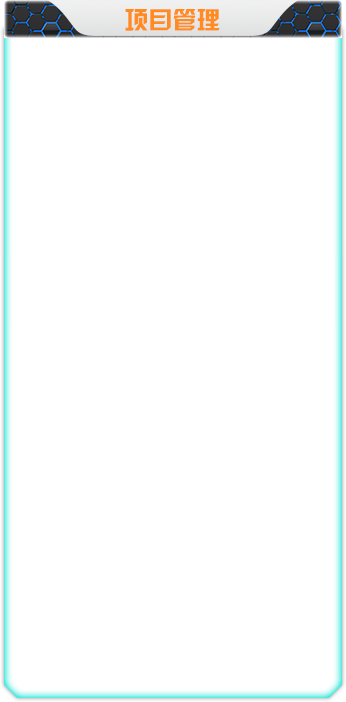
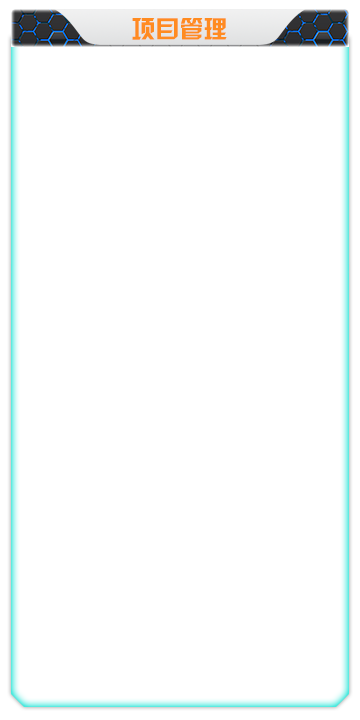
管理驾驶舱代码修正。

Changed region(s): [[0.0, 0.0, 1.0, 1.0]]

diff --git a/source/7.5.10-eai-cockpit-scene/FEaiCockpitModuleAchievementSnapshot.js b/source/7.5.10-eai-cockpit-scene/FEaiCockpitModuleAchievementSnapshot.js
@@ -13,7 +13,6 @@ MO.FEaiCockpitModuleAchievementSnapshot = function FEaiCockpitModuleAchievementS
    o._dataTicker           = null;
    // @attribute
    o._backgroundImage      = null;
-   o._backgroundPadding    = null;
    // @attribute
    o._listenersDataChanged = MO.Class.register(o, new MO.AListener('_listenersDataChanged', MO.EEvent.DataChanged));
    //..........................................................
@@ -57,26 +56,19 @@ MO.FEaiCockpitModuleAchievementSnapshot_onPaintBegin = function FEaiCockpitModul
    var top = rectangle.top;
    var width = rectangle.width;
    var height = rectangle.height;
-   var right = left + width;
-   var bottom = top + height;
-   var drawPosition = top;
-   var heightRate = height / o._size.height;
-   var drawLeft = left + 12;
-   var drawRight = right - 12;
-   var drawWidth = right - left;
    //..........................................................
    // 绘制背景
-   graphic.drawGridImage(o._backgroundImage, left, top, width, height, o._backgroundPadding);
+   graphic.drawImage(o._backgroundImage, left, top, width, height);
    //..........................................................
    // 绘制标题
-   var titleText = 'e租宝财富端本月业绩';
-   graphic.setFont('bold 32px Microsoft YaHei');
-   var titleWidth = graphic.textWidth(titleText);
-   var textLeft = left + (width - titleWidth) * 0.5;
-   graphic.drawText(titleText, textLeft, top + 60, '#333333');
-   drawPosition += 60
-      //..........................................................
-   graphic.setFont(o._rowFontStyle);
+   //var titleText = 'e租宝财富端本月业绩';
+   //graphic.setFont('bold 32px Microsoft YaHei');
+   //var titleWidth = graphic.textWidth(titleText);
+   //var textLeft = left + (width - titleWidth) * 0.5;
+   //graphic.drawText(titleText, textLeft, top + 60, '#333333');
+   //drawPosition += 60
+   //..........................................................
+   //graphic.setFont(o._rowFontStyle);
 }
 
 //==========================================================
@@ -104,10 +96,8 @@ MO.FEaiCockpitModuleAchievementSnapshot_construct = function FEaiCockpitModuleAc
    // 创建属性
    o._cellLocation.set(11, 4, 0);
    o._cellSize.set(5, 5);
-   o._size.set(600, 840);
    o._dataTicker = new MO.TTicker(1000 * 60);
    o._currentDate = new MO.TDate();
-   o._backgroundPadding = new MO.SPadding(20, 0, 20, 0);
    o._data = MO.Class.create(MO.FEaiCockpitMessageAchievement);
 }
 
@@ -125,8 +115,8 @@ MO.FEaiCockpitModuleAchievementSnapshot_setup = function FEaiCockpitModuleAchiev
    //..........................................................
    var grid = o._gridControl = MO.Class.create(MO.FGuiTable);
    grid.setOptionClip(true);
-   grid.setLocation(6, 80);
-   grid.setSize(578, 760);
+   grid.setLocation(6, 100);
+   grid.setSize(578, 500);
    grid.setHeadHeight(35);
    grid.setHeadBackColor('#122A46');
    grid.headFont().font = 'Microsoft YaHei';

diff --git a/source/2.2.03-graphic-2d-canvas/FG2dCanvasContext.js b/source/2.2.03-graphic-2d-canvas/FG2dCanvasContext.js
@@ -49,6 +49,7 @@ MO.FG2dCanvasContext = function FG2dCanvasContext(o) {
    o.drawText             = MO.FG2dCanvasContext_drawText;
    o.drawTextVertical     = MO.FG2dCanvasContext_drawTextVertical;
    o.drawImage            = MO.FG2dCanvasContext_drawImage;
+   o.drawRectangleImage   = MO.FG2dCanvasContext_drawRectangleImage;
    o.drawGridImage        = MO.FG2dCanvasContext_drawGridImage;
    o.drawQuadrilateral    = MO.FG2dCanvasContext_drawQuadrilateral;
    // @method
@@ -368,6 +369,17 @@ MO.FG2dCanvasContext_drawImage = function FG2dCanvasContext_drawImage(content, x
    }
    // 绘制位图
    handle.drawImage(data, x, y, width, height);
+}
+
+//==========================================================
+// <T>绘制图像。</T>
+//
+// @method
+// @param content:Object 图像内容
+// @param rectangle:SRectangle 矩形
+//==========================================================
+MO.FG2dCanvasContext_drawRectangleImage = function FG2dCanvasContext_drawRectangleImage(content, rectangle){
+   this.drawImage(content, rectangle.left, rectangle.top, rectangle.width, rectangle.height);
 }
 
 //==========================================================

diff --git a/source/7.5.10-eai-cockpit-scene/FEaiCockpitModuleManager.js b/source/7.5.10-eai-cockpit-scene/FEaiCockpitModuleManager.js
@@ -156,8 +156,11 @@ MO.FEaiCockpitModuleManager_setup = function FEaiCockpitModuleManager_setup(){
    module.setup();
    o.register(module);
    //..........................................................
-   var cellWidth = 1920 / 16;
-   var cellHeight = 1920 / 9;
+   var application = o._scene.application();
+   var desktop = application.desktop();
+   var logicSize = desktop.logicSize();
+   var cellWidth = logicSize.width / 16;
+   var cellHeight = logicSize.height / 9;
    // 显示模块
    var modules = o._modules;
    var count = modules.count();
@@ -170,7 +173,7 @@ MO.FEaiCockpitModuleManager_setup = function FEaiCockpitModuleManager_setup(){
       snapshot.size().set(cellWidth * snapshotCellSize.width, cellHeight * snapshotCellSize.height);
       // 设置视图大小
       var view = module.controlView();
-      view.size().set(1920, 1080);
+      view.size().assign(logicSize);
       // 设置控件
       if(typeCd == MO.EEaiCockpitModule.Logo){
          // 显示缩略图

diff --git a/source/eai/cockpit.html b/source/eai/cockpit.html
@@ -65,6 +65,7 @@
       MO.Console.find(MO.FE3sVendorConsole).setup('net');
       MO.Console.find(MO.FEnvironmentConsole).registerValue(MO.EEaiConstant.Resource, '/script/ars/eai');
       MO.Console.find(MO.FEnvironmentConsole).registerValue(MO.EEaiConstant.LogicService, 'http://service.test.eai.ezubo.com');
+      //MO.Console.find(MO.FEnvironmentConsole).registerValue(MO.EEaiConstant.LogicService, 'http://121.42.136.88:8020');
       //MO.Console.find(MO.FEnvironmentConsole).registerValue(MO.EEaiConstant.LogicService, 'http://localhost:8020');
       //MO.Console.find(MO.FEnvironmentConsole).registerValue(MO.EEaiConstant.LogicService, 'http://service.eai.ezubo.com');
       // 设置日志

diff --git a/source/7.5.10-eai-cockpit-scene/FEaiCockpitModuleLogoSnapshot.js b/source/7.5.10-eai-cockpit-scene/FEaiCockpitModuleLogoSnapshot.js
@@ -51,13 +51,9 @@ MO.FEaiCockpitModuleLogoSnapshot_onPaintBegin = function FEaiCockpitModuleLogoSn
    // 获得变量
    var graphic = event.graphic;
    var rectangle = event.rectangle;
-   var left = rectangle.left;
-   var top = rectangle.top;
-   var width = rectangle.width;
-   var height = rectangle.height;
    //..........................................................
    // 绘制背景
-   graphic.drawImage(o._backgroundImage, left, top, width, height);
+   graphic.drawRectangleImage(o._backgroundImage, rectangle);
 }
 
 //==========================================================

diff --git a/source/7.5.10-eai-cockpit-scene/FEaiCockpitModuleTitleSnapshot.js b/source/7.5.10-eai-cockpit-scene/FEaiCockpitModuleTitleSnapshot.js
@@ -110,7 +110,7 @@ MO.FEaiCockpitModuleTitleSnapshot_setup = function FEaiCockpitModuleTitleSnapsho
    var o = this;
    //创建图片
    var imageConsole = MO.Console.find(MO.FImageConsole);
-   var image = o._backgroundImage = imageConsole.load('{eai.resource}/cockpit/title/title_bg.png');
+   var image = o._backgroundImage = imageConsole.load('{eai.resource}/cockpit/title/ground.png');
    image.addLoadListener(o, o.onImageLoad);
 
    var frame = o._logoBar = MO.Console.find(MO.FGuiFrameConsole).get(o, 'eai.chart.cockpit.LogoBar');

diff --git a/source/7.5.10-eai-cockpit-scene/FEaiCockpitModuleForecast.js b/source/7.5.10-eai-cockpit-scene/FEaiCockpitModuleForecast.js
@@ -49,14 +49,12 @@ MO.FEaiCockpitModuleForecast_setup = function FEaiCockpitModuleForecast_setup(){
    snapshot.linkGraphicContext(o);
    snapshot.setModuleManager(o._moduleManager);
    snapshot.setModule(o);
-   snapshot.size().set(512, 1024);
    snapshot.setup();
    // 创建视图
    var view = o._controlView = MO.Class.create(MO.FEaiCockpitModuleForecastView);
    view.linkGraphicContext(o);
    view.setModuleManager(o._moduleManager);
    view.setModule(o);
-   view.size().set(1920, 1080);
    view.setup();
 }
 

diff --git a/source/7.5.10-eai-cockpit-scene/FEaiCockpitModuleWarning.js b/source/7.5.10-eai-cockpit-scene/FEaiCockpitModuleWarning.js
@@ -49,14 +49,12 @@ MO.FEaiCockpitModuleWarning_setup = function FEaiCockpitModuleWarning_setup(){
    snapshot.linkGraphicContext(o);
    snapshot.setModuleManager(o._moduleManager);
    snapshot.setModule(o);
-   snapshot.size().set(512, 1024);
    snapshot.setup();
    // 创建视图
    var view = o._controlView = MO.Class.create(MO.FEaiCockpitModuleWarningView);
    view.linkGraphicContext(o);
    view.setModuleManager(o._moduleManager);
    view.setModule(o);
-   view.size().set(1920, 1080);
    view.setup();
 }
 

diff --git a/source/7.5.10-eai-cockpit-scene/FEaiCockpitModuleSplash.js b/source/7.5.10-eai-cockpit-scene/FEaiCockpitModuleSplash.js
@@ -49,14 +49,12 @@ MO.FEaiCockpitModuleSplash_setup = function FEaiCockpitModuleSplash_setup(){
    snapshot.linkGraphicContext(o);
    snapshot.setModuleManager(o._moduleManager);
    snapshot.setModule(o);
-   snapshot.size().set(512, 1024);
    snapshot.setup();
    // 创建视图
    var view = o._controlView = MO.Class.create(MO.FEaiCockpitModuleSplashView);
    view.linkGraphicContext(o);
    view.setModuleManager(o._moduleManager);
    view.setModule(o);
-   view.size().set(1920, 1080);
    view.setup();
 }
 

diff --git a/source/7.5.10-eai-cockpit-scene/FEaiCockpitModuleLogo.js b/source/7.5.10-eai-cockpit-scene/FEaiCockpitModuleLogo.js
@@ -49,14 +49,12 @@ MO.FEaiCockpitModuleLogo_setup = function FEaiCockpitModuleLogo_setup(){
    snapshot.linkGraphicContext(o);
    snapshot.setModuleManager(o._moduleManager);
    snapshot.setModule(o);
-   snapshot.size().set(512, 1024);
    snapshot.setup();
    // 创建视图
    var view = o._controlView = MO.Class.create(MO.FEaiCockpitModuleLogoView);
    view.linkGraphicContext(o);
    view.setModuleManager(o._moduleManager);
    view.setModule(o);
-   view.size().set(1920, 1080);
    view.setup();
 }
 
